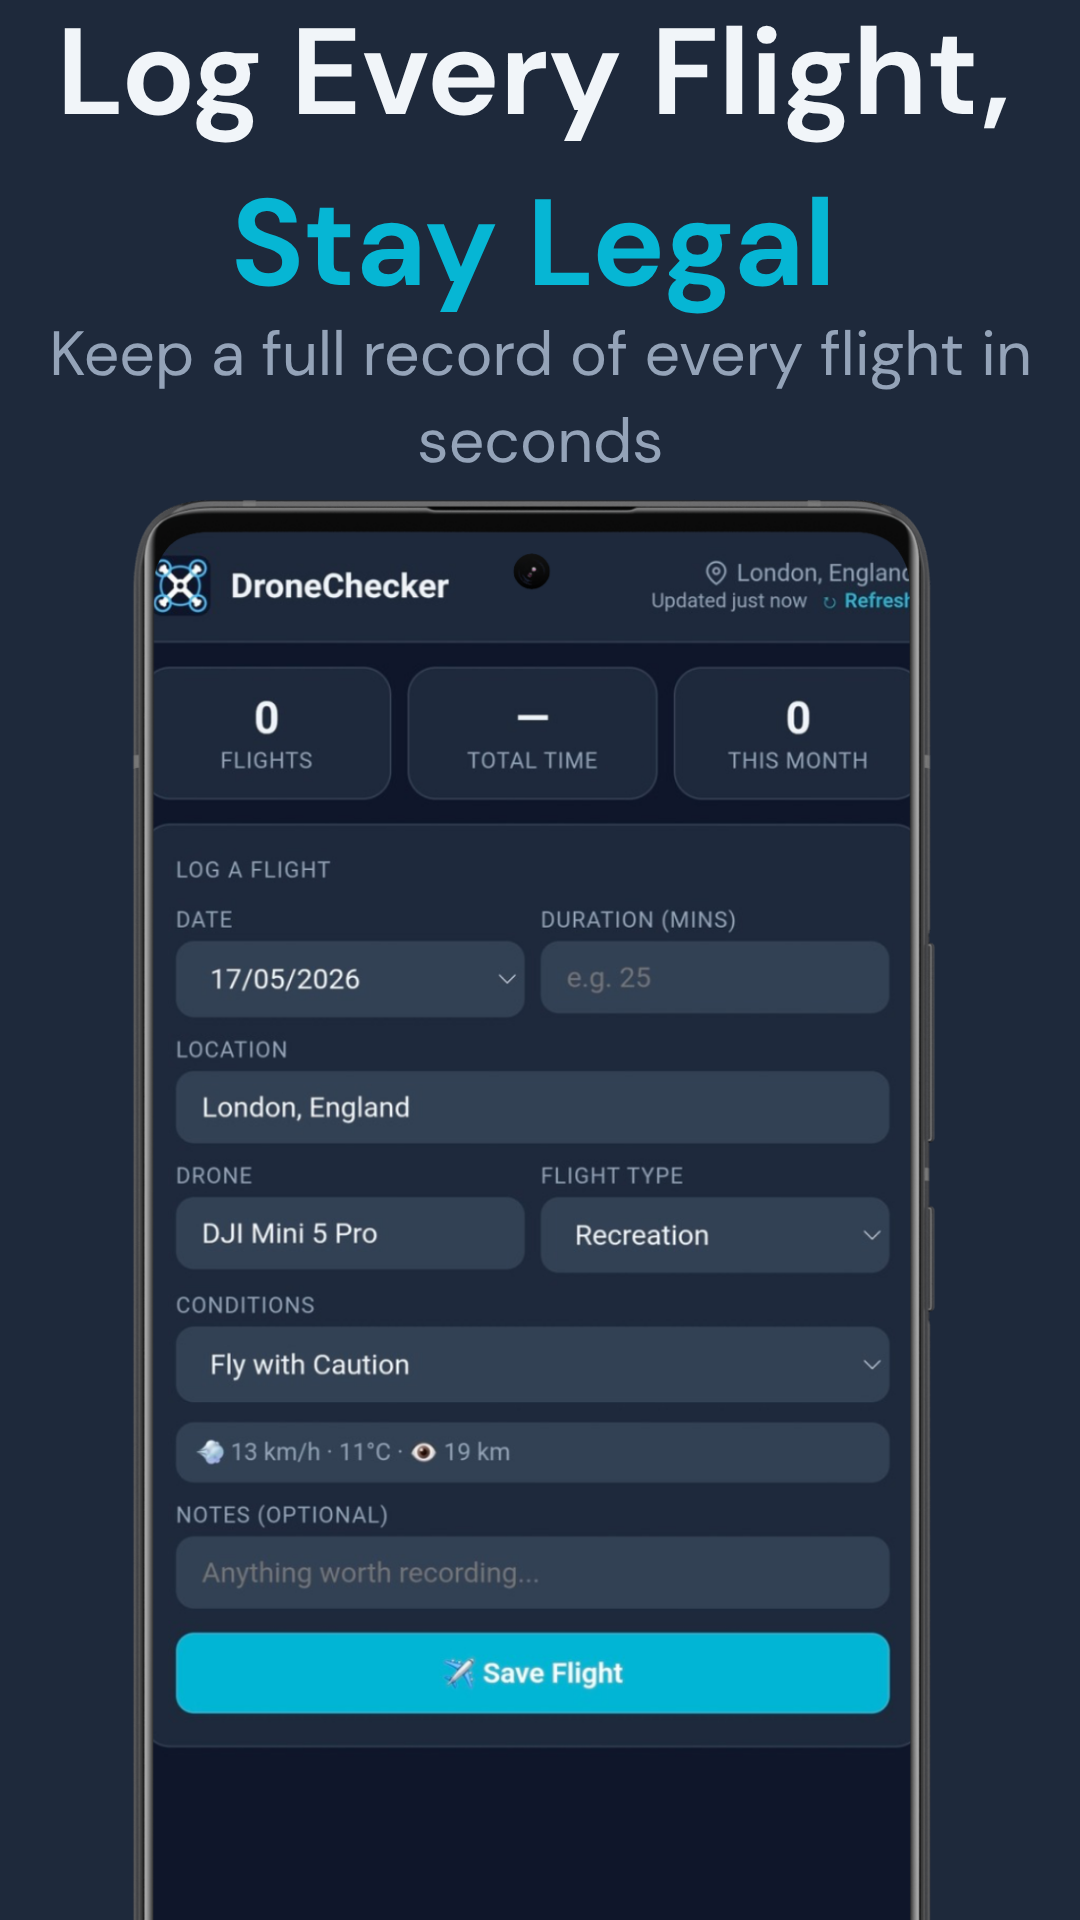
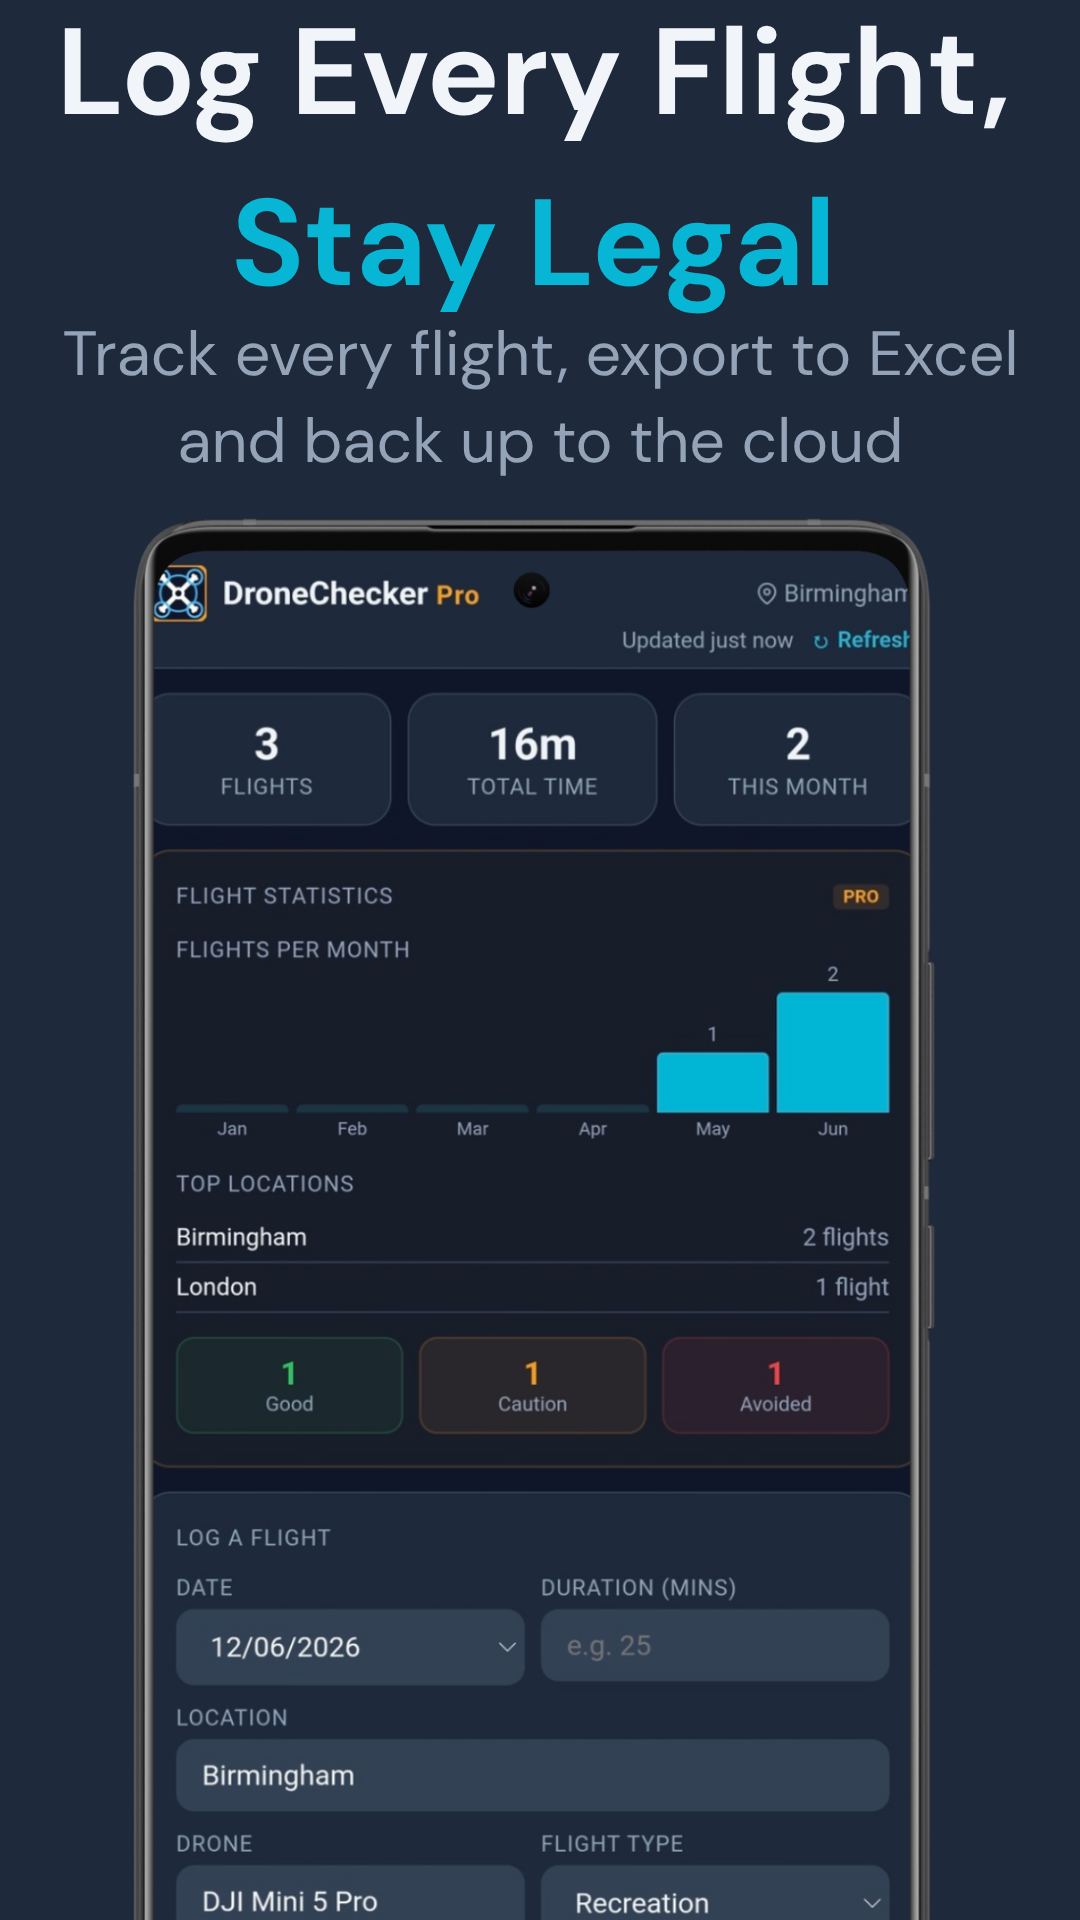
added yearly price

Changed region(s): [[0.0306, 0.1562, 0.9472, 1.0], [0.4278, 0.375, 0.55, 0.4375]]

diff --git a/app.html b/app.html
@@ -708,8 +708,12 @@
           <div class="pro-hero-sub">Everything free pilots love, plus more.</div>
         </div>
         <div class="pro-price-card">
-          <div class="pro-price-row"><span class="pro-price-amt">&pound;2.99</span><span class="pro-price-per">/ month</span></div>
-          <div class="pro-price-note">Or &pound;24.99/year &middot; Cancel anytime</div>
+          <div style="display:flex;gap:6px;margin-bottom:12px;background:var(--bg3);border-radius:8px;padding:3px;">
+            <button id="plan-monthly-btn" onclick="selectPlan('monthly')" style="flex:1;padding:7px 0;border-radius:6px;border:none;font-size:13px;font-weight:600;cursor:pointer;background:#1e40af;color:#fff;transition:all .2s;">Monthly</button>
+            <button id="plan-yearly-btn" onclick="selectPlan('yearly')" style="flex:1;padding:7px 0;border-radius:6px;border:none;font-size:13px;font-weight:600;cursor:pointer;background:transparent;color:var(--muted);transition:all .2s;">Yearly <span style="font-size:10px;background:#16a34a;color:#fff;border-radius:4px;padding:1px 5px;margin-left:3px;">SAVE 16%</span></button>
+          </div>
+          <div class="pro-price-row"><span class="pro-price-amt" id="plan-price-amt">&pound;2.99</span><span class="pro-price-per" id="plan-price-per">/ month</span></div>
+          <div class="pro-price-note" id="plan-price-note">Cancel anytime &middot; Secure payment via Stripe</div>
         </div>
         <div class="pro-feat-section">Always free</div>
         <div class="pro-feat-row"><div class="pro-feat-check free"><svg viewBox="0 0 24 24" fill="none" stroke="#22c55e" stroke-width="3"><polyline points="20 6 9 17 4 12"/></svg></div><div><div class="pro-feat-title">Fly rating &amp; full weather dashboard</div><div class="pro-feat-desc">Live conditions calibrated to your drone model</div></div></div>
@@ -1031,7 +1035,7 @@ var DRONES={
   generic_light:{name:'Generic Light (<500g)',windAmber:22,windRed:29,gustAmber:25,gustRed:29},
   generic_heavy:{name:'Generic Heavy (>500g)',windAmber:29,windRed:39,gustAmber:32,gustRed:39},
 };
-var APP_VERSION='1.6.1';
+var APP_VERSION='1.6.2';
 var isIOS=(/iPad|iPhone|iPod/.test(navigator.userAgent)||(navigator.userAgent.includes('Mac')&&'ontouchend' in document))&&!window.MSStream;
 var isAndroid=/Android/.test(navigator.userAgent);
 var isStandalone=window.matchMedia('(display-mode: standalone)').matches||!!window.navigator.standalone;
@@ -3137,6 +3141,32 @@ var PAID_FEATURES_ENABLED=true;
 // proUser, loadProUser, saveProUser, isPro — defined below with Firebase integration
 // ---- Stripe checkout ----
 var CHECKOUT_URL='https://us-central1-dronechecker.cloudfunctions.net/createCheckoutSession';
+var _selectedPlan='monthly'; // 'monthly' or 'yearly'
+
+function selectPlan(plan){
+  _selectedPlan=plan;
+  var mBtn=document.getElementById('plan-monthly-btn');
+  var yBtn=document.getElementById('plan-yearly-btn');
+  var amt=document.getElementById('plan-price-amt');
+  var per=document.getElementById('plan-price-per');
+  var note=document.getElementById('plan-price-note');
+  var subBtn=document.getElementById('pro-subscribe-btn');
+  if(plan==='yearly'){
+    if(mBtn){mBtn.style.background='transparent';mBtn.style.color='var(--muted)';}
+    if(yBtn){yBtn.style.background='#1e40af';yBtn.style.color='#fff';}
+    if(amt){amt.innerHTML='&pound;29.99';}
+    if(per){per.textContent='/ year';}
+    if(note){note.innerHTML='That\'s &pound;2.50/month &middot; Save &pound;5.89 vs monthly';}
+    if(subBtn){subBtn.innerHTML='Get Pro &middot; &pound;29.99/year';}
+  } else {
+    if(mBtn){mBtn.style.background='#1e40af';mBtn.style.color='#fff';}
+    if(yBtn){yBtn.style.background='transparent';yBtn.style.color='var(--muted)';}
+    if(amt){amt.innerHTML='&pound;2.99';}
+    if(per){per.textContent='/ month';}
+    if(note){note.textContent='Cancel anytime \u00b7 Secure payment via Stripe';}
+    if(subBtn){subBtn.innerHTML='Get Pro &middot; &pound;2.99/month';}
+  }
+}
 
 function handleSubscribe(){
   // If not signed in, go to sign-in screen first
@@ -3154,20 +3184,20 @@ function startStripeCheckout(){
   fetch(CHECKOUT_URL,{
     method:'POST',
     headers:{'Content-Type':'application/json'},
-    body:JSON.stringify({uid:proUser.uid,email:proUser.email})
+    body:JSON.stringify({uid:proUser.uid,email:proUser.email,plan:_selectedPlan})
   })
   .then(function(r){return r.json();})
   .then(function(data){
     if(data.url){
-      window.location.href=data.url; // redirect to Stripe Checkout
+      window.location.href=data.url;
     } else {
       showToast('Could not start checkout. Please try again.');
-      if(btn){btn.textContent='Get Pro · £2.99/month';btn.disabled=false;}
+      if(btn){btn.textContent=_selectedPlan==='yearly'?'Get Pro · £29.99/year':'Get Pro · £2.99/month';btn.disabled=false;}
     }
   })
   .catch(function(){
     showToast('Could not start checkout. Check your connection.');
-    if(btn){btn.textContent='Get Pro · £2.99/month';btn.disabled=false;}
+    if(btn){btn.textContent=_selectedPlan==='yearly'?'Get Pro · £29.99/year':'Get Pro · £2.99/month';btn.disabled=false;}
   });
 }
 

diff --git a/functions/index.js b/functions/index.js
@@ -10,8 +10,9 @@ admin.initializeApp();
 const STRIPE_SECRET_KEY = defineSecret('STRIPE_SECRET_KEY');
 const STRIPE_WEBHOOK_SECRET = defineSecret('STRIPE_WEBHOOK_SECRET');
 
-// ---- Your Stripe price ID for DroneChecker Pro ----
-const PRICE_ID = 'price_1TgjvDBwELWfTObfoMWjvt6N';
+// ---- Your Stripe price IDs for DroneChecker Pro ----
+const PRICE_ID_MONTHLY = 'price_1TgjvDBwELWfTObfoMWjvt6N';
+const PRICE_ID_YEARLY  = 'price_1ThSwBBwELWfTObfULMmiYjp';
 
 // ---- App URL — where Stripe redirects after checkout ----
 const APP_URL = 'https://dronechecker.co.uk/app.html';
@@ -30,12 +31,14 @@ exports.createCheckoutSession = onRequest(
       return;
     }
 
-    const {uid, email} = req.body;
+    const {uid, email, plan} = req.body;
 
     if (!uid || !email) {
       res.status(400).json({error: 'Missing uid or email'});
       return;
     }
+
+    const priceId = (plan === 'yearly') ? PRICE_ID_YEARLY : PRICE_ID_MONTHLY;
 
     try {
       const stripe = stripeLib(STRIPE_SECRET_KEY.value());
@@ -44,7 +47,7 @@ exports.createCheckoutSession = onRequest(
         mode: 'subscription',
         payment_method_types: ['card'],
         customer_email: email,
-        line_items: [{price: PRICE_ID, quantity: 1}],
+        line_items: [{price: priceId, quantity: 1}],
         success_url: APP_URL + '?pro=success',
         cancel_url:  APP_URL + '?pro=cancelled',
         metadata: {uid},

diff --git a/sw.js b/sw.js
@@ -1,4 +1,4 @@
-const CACHE = 'dronechecker-v74';
+const CACHE = 'dronechecker-v75';
 
 const STATIC = [
   '/',